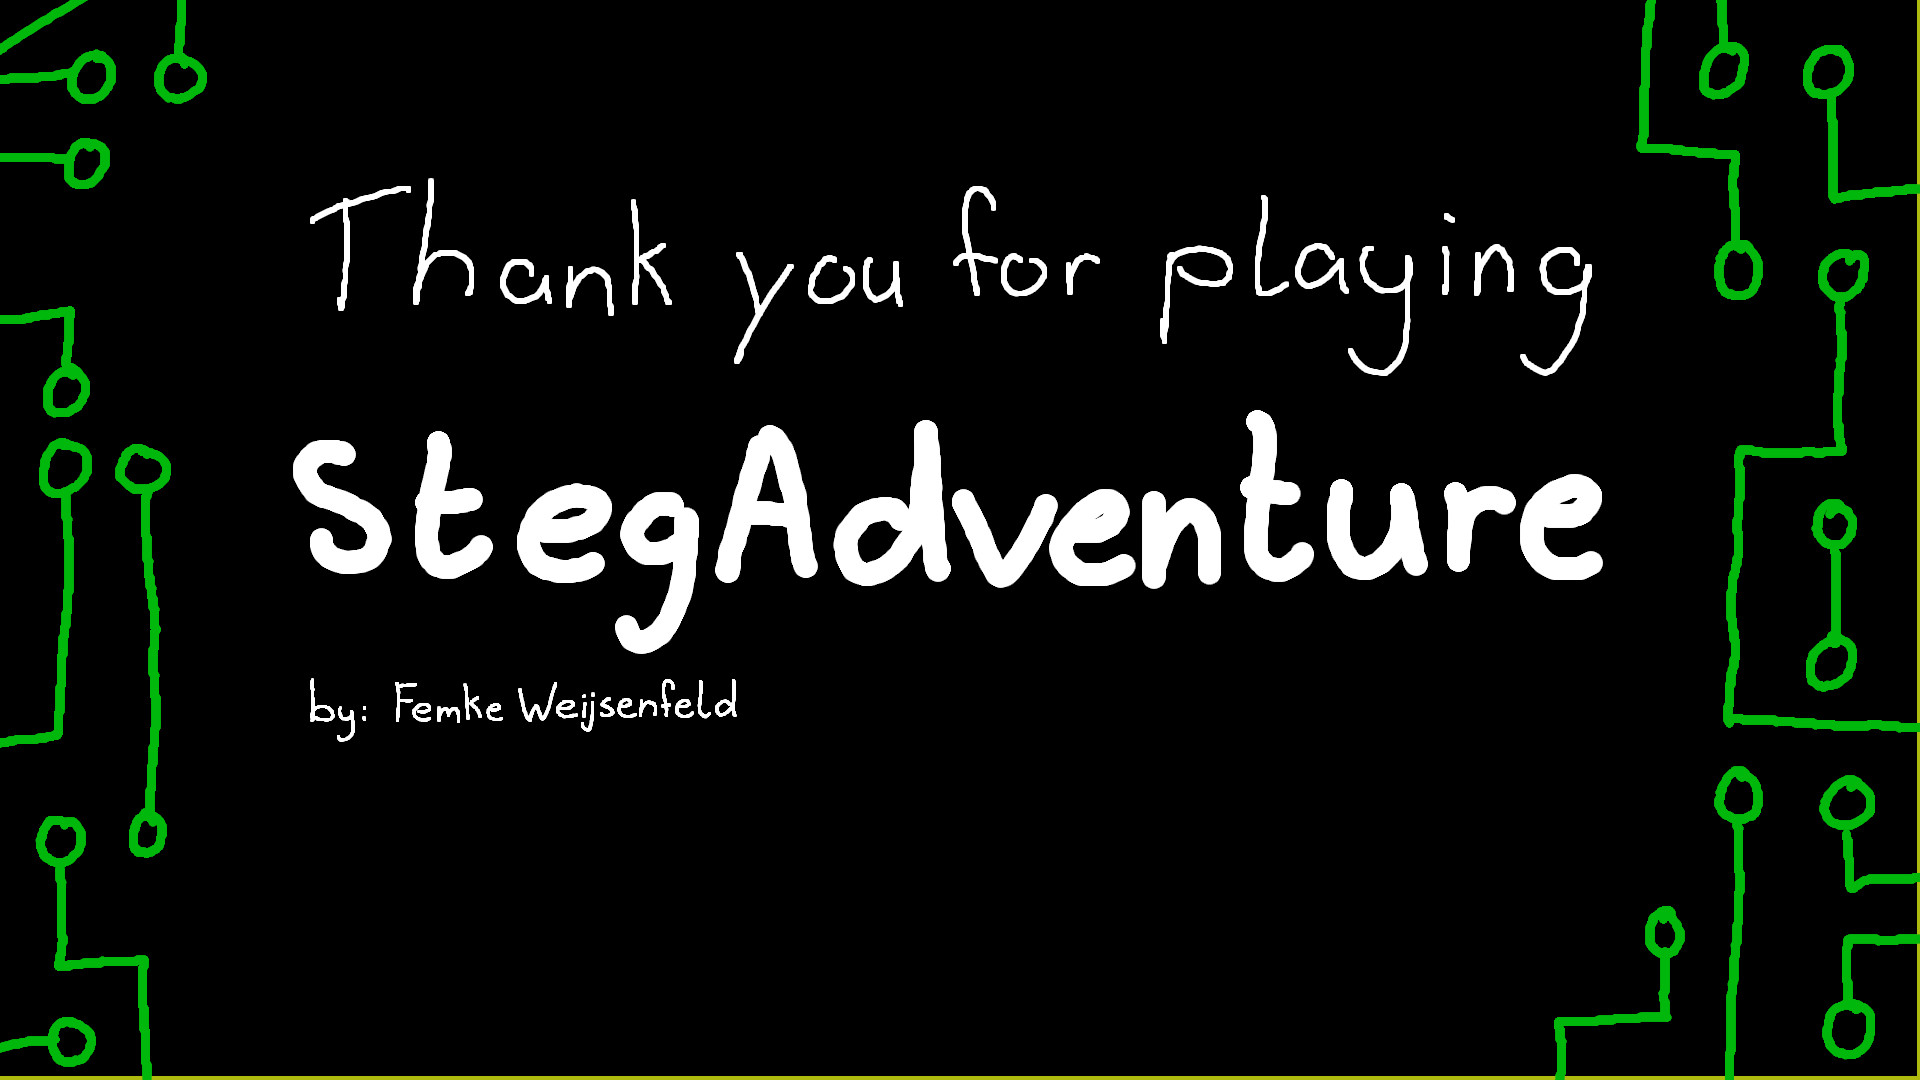
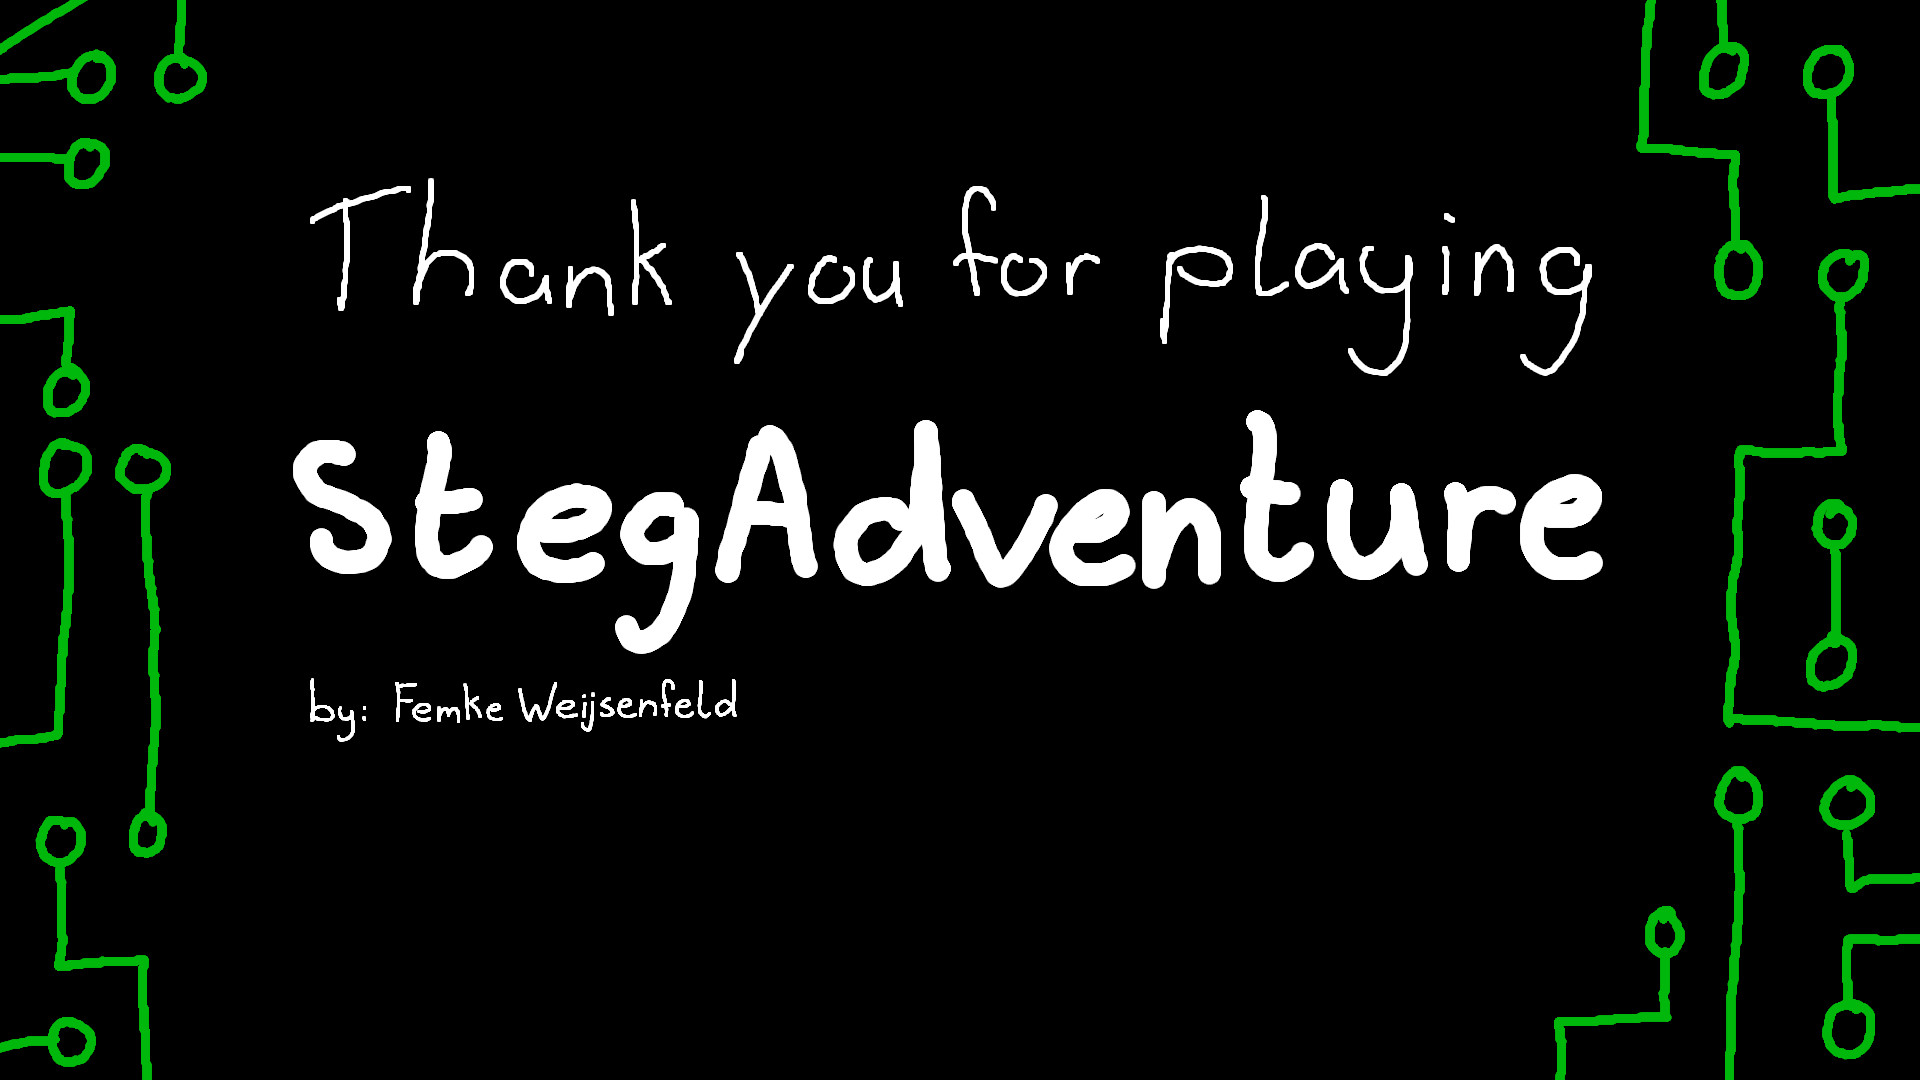
remove line in images

Changed region(s): [[0.0, 0.9778, 1.0, 1.0]]

diff --git a/resources/js/components/game/DialogBox.vue b/resources/js/components/game/DialogBox.vue
@@ -99,10 +99,12 @@ onBeforeUnmount(() => {
             <!-- Character -->
             <img class="character-image" :src="getCharacterImage()" @error="handleCharacterImageError" />
             <!-- Text Cloud -->
-            <img class="character-image" :src="getTextCloudImage()" @error="handleTextCloudImageError" />
+            <img v-if="props.node.id !== 760" class="character-image" :src="getTextCloudImage()"
+                @error="handleTextCloudImageError" />
 
             <!-- Type TEXT & Type QUESTION -->
-            <p :class="props.node.character === 'player' ? 'text-player' : 'text'" :style="{ fontSize: fontSizeText }">
+            <p v-if="props.node.id !== 760" :class="props.node.character === 'player' ? 'text-player' : 'text'"
+                :style="{ fontSize: fontSizeText }">
                 {{ getContent() }}
             </p>
             <!-- Type QUESTION -->
